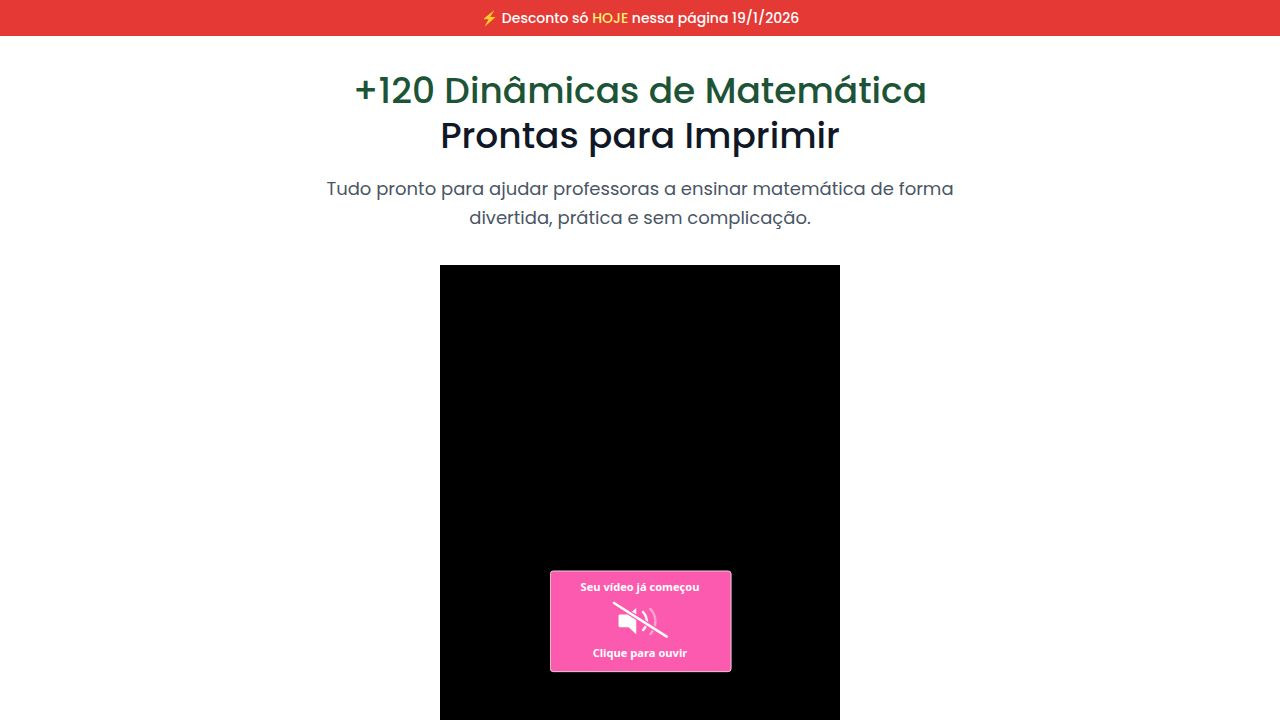
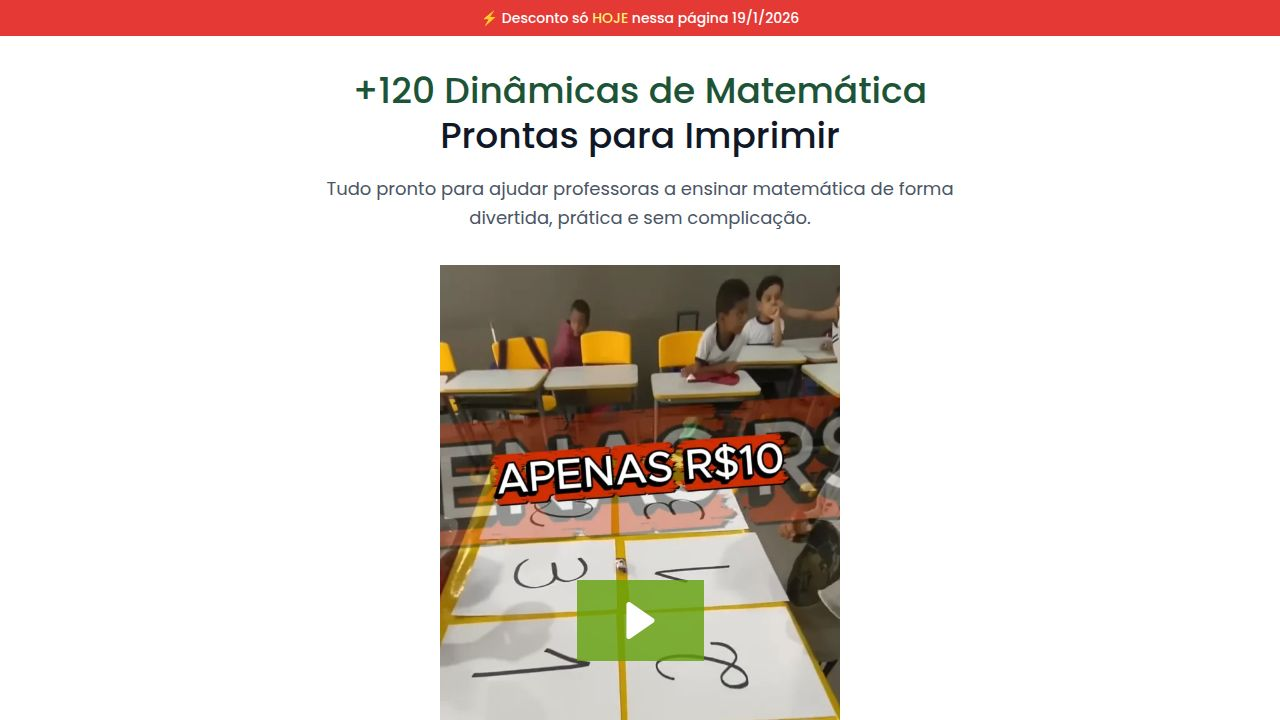
Update video player to use Wistia embed
Replace the existing iframe video embed with Wistia player components and scripts.

Replit-Commit-Author: Agent
Replit-Commit-Session-Id: 08f15058-b45f-454a-a492-25d1206288fd
Replit-Commit-Checkpoint-Type: full_checkpoint
Replit-Commit-Event-Id: 8d4b2bad-ce0e-4a74-809d-ea28b7f3753f
Replit-Commit-Screenshot-Url: https://storage.googleapis.com/screenshot-production-us-central1/2edc28e1-ab15-4a82-bb1f-e597b700344e/08f15058-b45f-454a-a492-25d1206288fd/smLn4Y7
Replit-Helium-Checkpoint-Created: true

Changed region(s): [[0.3438, 0.3667, 0.6562, 1.0]]

diff --git a/client/src/pages/Home.tsx b/client/src/pages/Home.tsx
@@ -79,11 +79,21 @@ export default function Home() {
     // Initial delay
     setTimeout(showRandomNotification, 3000);
 
-    // Smartplayer SDK
-    const s = document.createElement("script");
-    s.src = "https://scripts.converteai.net/lib/js/smartplayer-wc/v4/sdk.js";
-    s.async = true;
-    document.head.appendChild(s);
+    // Wistia SDK
+    const wistiaBaseScript = document.createElement("script");
+    wistiaBaseScript.src = "https://fast.wistia.com/player.js";
+    wistiaBaseScript.async = true;
+    document.head.appendChild(wistiaBaseScript);
+
+    const wistiaEmbedScript = document.createElement("script");
+    wistiaEmbedScript.src = "https://fast.wistia.com/embed/sqefiu1vgr.js";
+    wistiaEmbedScript.async = true;
+    wistiaEmbedScript.type = "module";
+    document.head.appendChild(wistiaEmbedScript);
+
+    const wistiaStyle = document.createElement("style");
+    wistiaStyle.textContent = "wistia-player[media-id='sqefiu1vgr']:not(:defined) { background: center / contain no-repeat url('https://fast.wistia.com/embed/medias/sqefiu1vgr/swatch'); display: block; filter: blur(5px); padding-top:177.78%; }";
+    document.head.appendChild(wistiaStyle);
 
     // UTMify SDK
     const utmScript = document.createElement("script");
@@ -96,7 +106,9 @@ export default function Home() {
 
     return () => {
       clearInterval(interval);
-      document.head.removeChild(s);
+      document.head.removeChild(wistiaBaseScript);
+      document.head.removeChild(wistiaEmbedScript);
+      document.head.removeChild(wistiaStyle);
       document.head.removeChild(utmScript);
     };
   }, []);
@@ -142,17 +154,11 @@ export default function Home() {
 
           {/* VSL Video */}
           <div className="mt-8">
-            <div id="ifr_696e608110d72bdc9f369c5a_wrapper" style={{ margin: "0 auto", width: "100%", maxWidth: "400px" }}>
-              <div style={{ position: "relative", padding: "177.77777777777777% 0 0 0" }} id="ifr_696e608110d72bdc9f369c5a_aspect">
-                <iframe 
-                  frameBorder="0" 
-                  allowFullScreen 
-                  src="https://scripts.converteai.net/b3d1a520-ab98-4a63-bc66-0b40a4eb3ecb/players/696e608110d72bdc9f369c5a/v4/embed.html"
-                  id="ifr_696e608110d72bdc9f369c5a" 
-                  style={{ position: "absolute", top: 0, left: 0, width: "100%", height: "100%" }} 
-                  referrerPolicy="origin"
-                ></iframe>
-              </div>
+            <div style={{ margin: "0 auto", width: "100%", maxWidth: "400px" }}>
+              {React.createElement("wistia-player", {
+                "media-id": "sqefiu1vgr",
+                aspect: "0.5625"
+              })}
             </div>
           </div>
 
